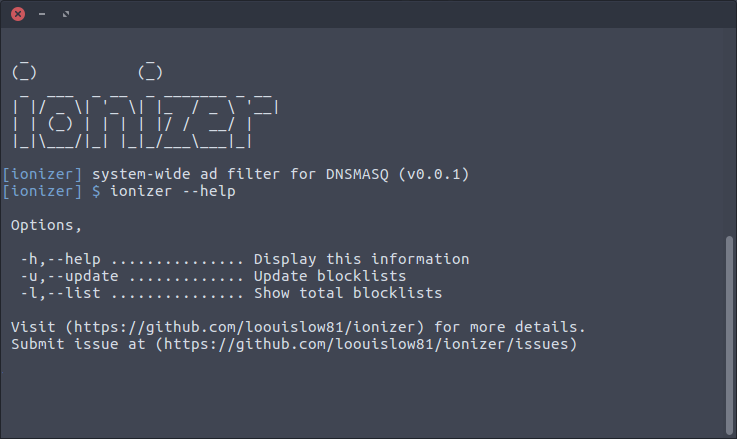
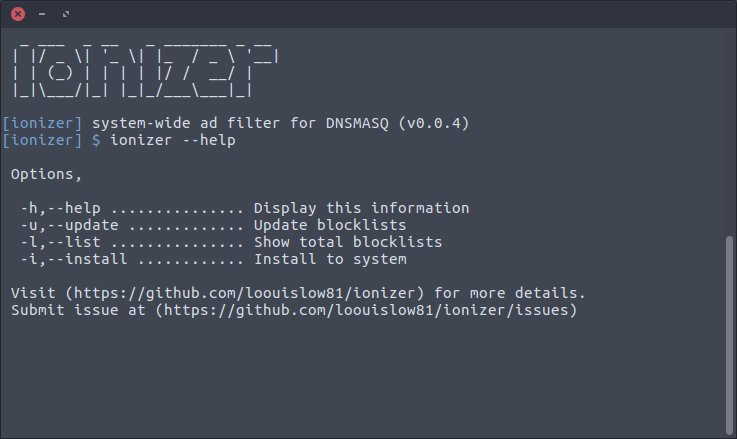
update README.md

diff --git a/README.md b/README.md
@@ -17,7 +17,7 @@
 
 System-wide ads filter with just `DNSMASQ` and `BASH` for Linux.
 
-This is my daily use mini tool for all my Linux computers. Blocking ads works seamlessly amazing than installing web browser extensions and desktop apps.
+This is my daily use mini-tool for all my Linux computers. The blocking ads work seamlessly better than installing web browser extensions and desktop apps. The filter data is hosted at Github by using a dedicated [generator](https://github.com/loouislow81/ionizer/tree/master/generator). The [client](https://github.com/loouislow81/ionizer/tree/master/client) is responsible for downloading and updating filter data.
 
 <p align="left">
   <img src="assets/screenshot_01.png" width="49%" height="auto">
@@ -25,9 +25,22 @@ This is my daily use mini tool for all my Linux computers. Blocking ads works se
 </p>
 
 
-### __usage
+### _usage
 
 **(!!)** May required root permissions.
+
+install and update the blocklists,
+
+> ionizer will install `dnsmasq` package for you, if not installed,
+
+```bash
+# install via download
+$ wget https://github.com/loouislow81/ionizer/releases/download/untagged-5240e09eafb9428546b3/ionizer_0.0.4_linux_x86-64.app_image
+$ sudo ionizer_0.0.4_linux_x86-64.app_image --install
+# install via source
+$ sudo ionizer --install
+$ sudo ionizer --update
+```
 
 edit file `/etc/dnsmasq.conf` and add this line,
 
@@ -37,14 +50,7 @@ addn-hosts=/etc/ionizer/ipaddress.ions
 ...
 ```
 
-install and update the blocklists, ionizer will install `dnsmasq` for you if not installed,
-
-```bash
-$ ionizer --install
-$ ionizer --update
-```
-
-**Note:** you can add `ionizer --update` into `crontab` to automate the blocklist updates.
+> you can add `ionizer --update` into `crontab` to automate the blocklist updates.
 
 CLI options,
 
